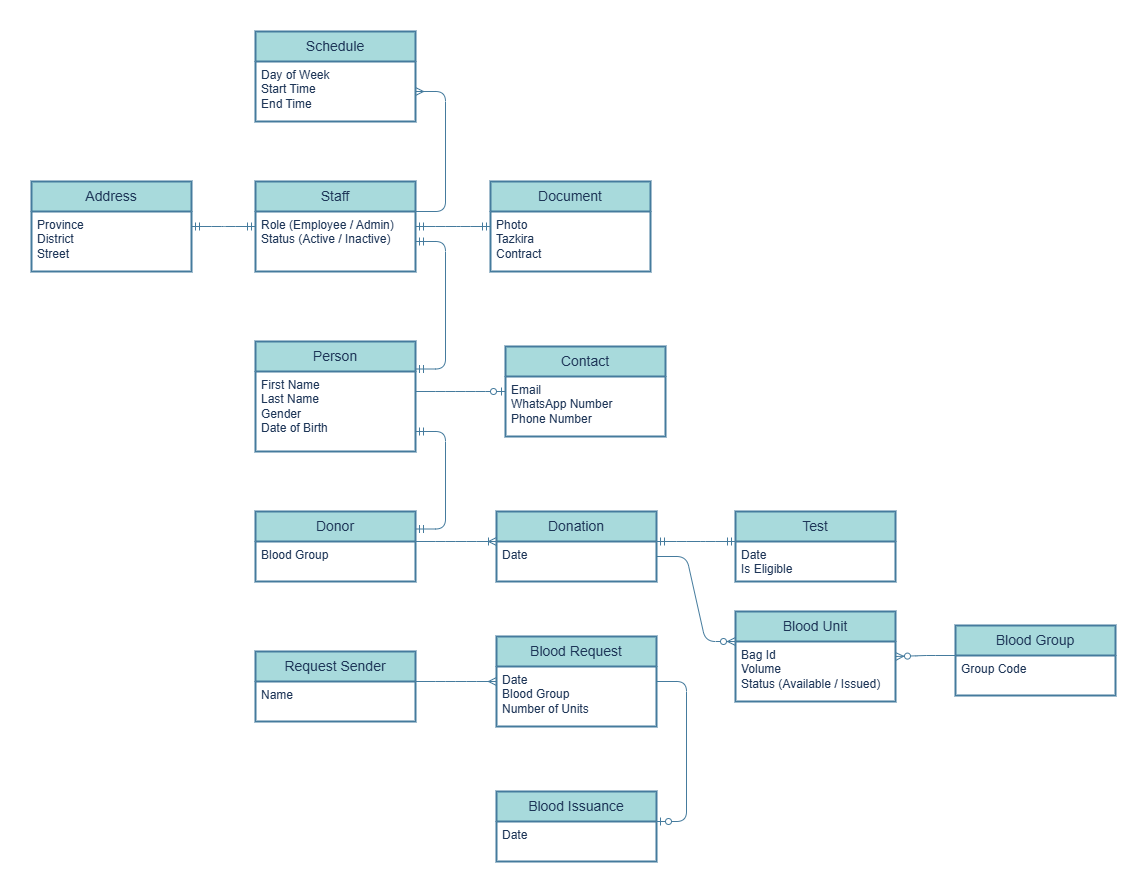
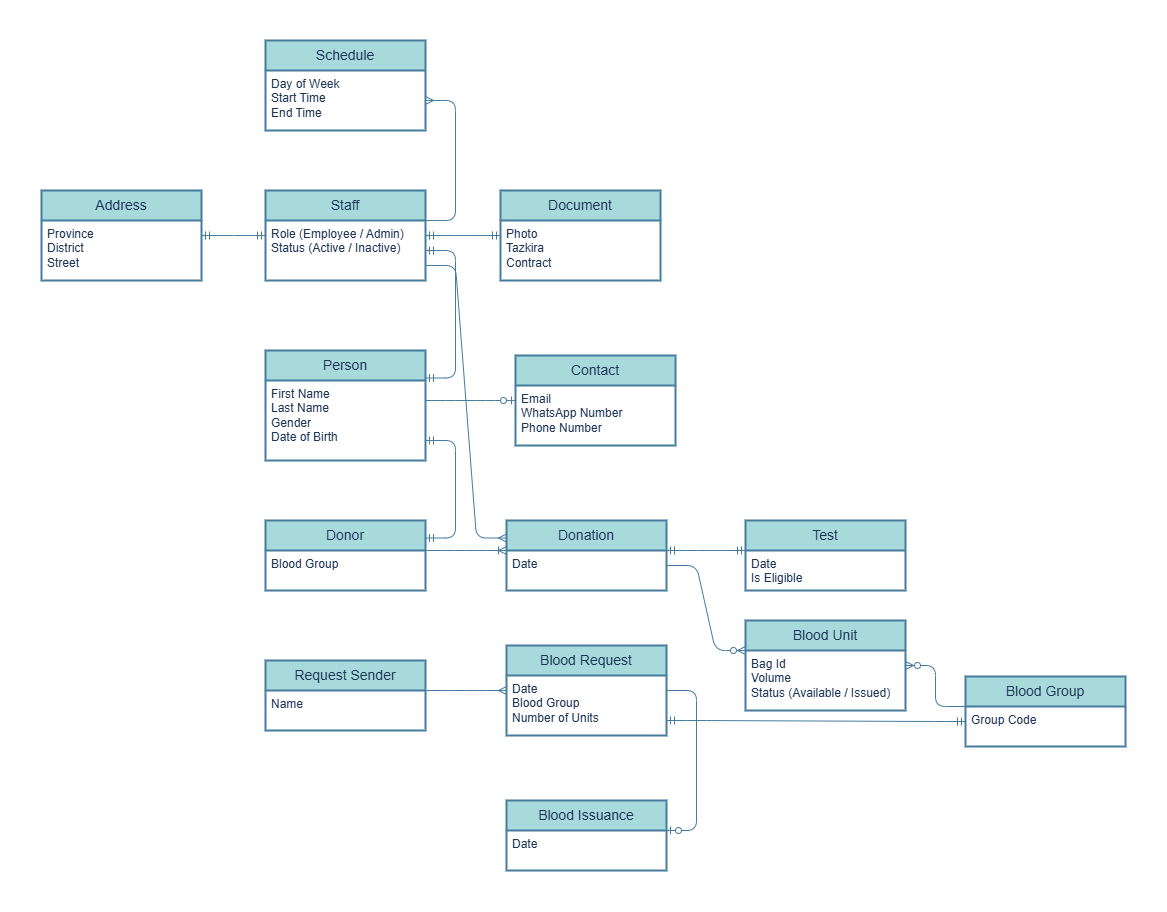
Relational Schema added

diff --git a/Blood Bank Database System/README.md b/Blood Bank Database System/README.md
@@ -3,11 +3,91 @@ A blood bank information system is needed to manage staff, blood donors, blood d
 
 # ER diagram 
 ![ERD](Assets/ERD.png)
- 
 
-# Logical Model
+# Relational Schema
+- **Person**
+    - id - PK
+    - first_name
+    - last_name
+    - gender
+    - date_of_birth
+    - created_at
+    - updated_at
+- **Staff**
+    - person_id - PK, FK, on delete: cascade
+    - role (Employee, Admin)
+    - status (Active, Inactive)
+- **Document**
+    - person_id - PK, FK, on delete: cascade
+    - photo_url
+    - tazkira_url
+    - contract_url
+    - created_at
+    - updated_at
+- **Schedule**
+    - id - surrogate PK
+    - person_id - FK, on delete:cascade
+    - day_of_week
+    - start_time
+    - end_time
+    - created_at
+- **Address**
+    - person_id - PK, FK, on delete: cascade
+    - province
+    - district
+    - street
+    - created_at
+    - updated_at
+- **Contact**
+    - person_id - PK, FK, on delete: cascade
+    - email 
+    - whatsapp_number
+    - phone_number
+    - created_at
+    - updated_at
+- **Donor**
+    - person_id - PK, FK, on delete: cascade
+    - blood_group
+- **Donation**
+    - id - surrogate PK
+    - person_id - FK
+    - person_id - FK
+    - date
+    - created_at
+    - updated_at
+- **Test**
+    - donation_id - PK, FK, on delete:cascade
+    - date
+    - is_eligible
+    - created_at
+- **Blood_Group**
+    - group_code - PK
+    - created_at
+- **Blood_unit**
+    - bag_id - PK
+    - donation_id - FK 
+    - groupd_id - FK 
+    - volume
+    - status(Available, Issued)
+    - created_at
+    - updated_at
+- **Request_Sender**
+    - id - surrogate PK
+    - name
+    - created_at
+    - updated_at
+- **Blood_request**
+    - id - surrogate PK
+    - date
+    - blood_group_id - FK
+    - number_of_units
+    - created_at
+    - updated_at
+- **Blood_Issuance**    
+    - request_id - PK, FK
+    - date
+    - created_at
 
-# Physical Model
 
 
-# Database Usage
+